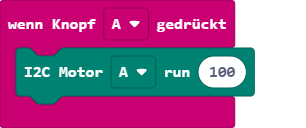
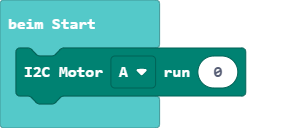
Aktualisiere main.blocks, main.ts, custom.ts

diff --git a/custom.ts b/custom.ts
@@ -4,8 +4,8 @@ enum i2cMotor {
     //% blockId="ApB" block="A+B"
     AB = 3,
 }
-//% color="#008272"
-namespace motors {
+//% color="#008272"weight=100 icon="\uf1b9" block="I2C Motor Shield"
+namespace i2cmotors {
 //% block="I2C Motor %i2cMotor|run %n"
     export function i2cMotorRun (chanel: i2cMotor, speed: number): void {
         let buf = pins.createBuffer(3);

diff --git a/main.ts b/main.ts
@@ -1,3 +1,1 @@
-input.onButtonPressed(Button.A, function () {
-    motors.i2cMotorRun(i2cMotor.A, 100)
-})
+i2cmotors.i2cMotorRun(i2cMotor.A, 0)
